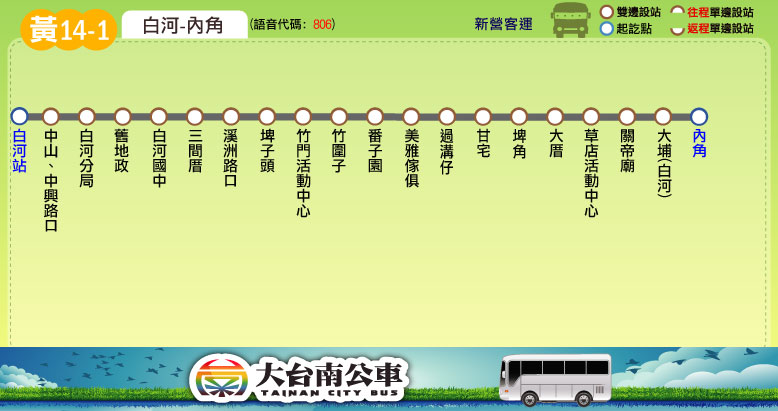
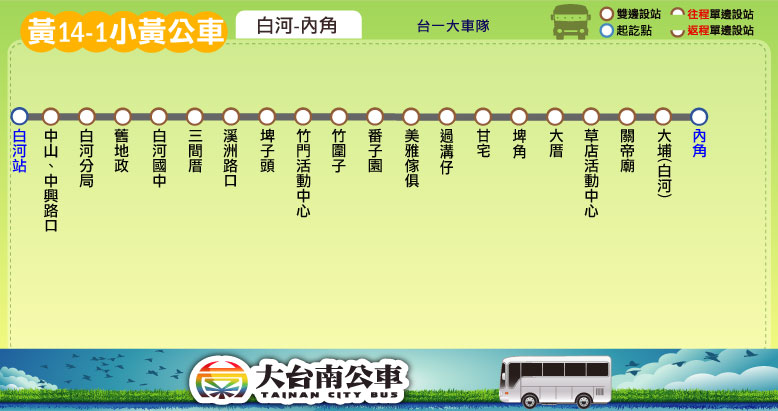
更新時刻表：黃14-1、黃15(改制小黃公車)

diff --git a/route/fare_and_time/yellow_15.js b/route/fare_and_time/yellow_15.js
@@ -20,10 +20,10 @@ yellow_15_fare = [
 // format = [time at the start stop] or
 // [time, other] or
 // [time, start_stop, end_stop, other]
-yellow_15_main_stop_name = ["白河","賞蓮大道<br />南站","玉豐","蓮花公園","枋子林","詔安厝<br />(二)"];
-yellow_15_main_stop_time_consume = [0, 5, 8, 10, 11, 15];
-yellow_15_important_stop = [0, 3, 5]; // 白河, 蓮花公園, 詔安厝(二)
+yellow_15_main_stop_name = ["白河站","賞蓮大道<br />南站","玉豐","蓮花公園","枋子林","詔安厝<br />(二)"];
+yellow_15_main_stop_time_consume = [0, 3, 8, 9, 11, 15];
+yellow_15_important_stop = [0, 3, 5]; // 白河站, 蓮花公園, 詔安厝(二)
 var start_stop = 0; // 白河
 var end_stop = 3; // 蓮花公園
-yellow_15_time_go = [["06:45",[end_stop]],["10:50",[end_stop]],["18:35",[end_stop]]];
-yellow_15_time_return = [["06:25",[end_stop]],["07:05",[end_stop]],["11:10",[end_stop]]];
+yellow_15_time_go = [["06:45",['黃']],["10:50",['黃']],["18:35",['黃']]];
+yellow_15_time_return = [["06:25",[end_stop]],["07:05",['黃']],["11:10",['黃']]];

diff --git a/yellow/yellow_14-1.html b/yellow/yellow_14-1.html
@@ -3,7 +3,7 @@
 <head>
 <meta http-equiv="Content-Type" content="text/html; charset=utf-8" />
 <script type="text/javascript">
-	route_name = '黃14-1';
+	route_name = '黃14-1小黃公車';
 	route_name_en = 'Yellow 14-1';
 	route_file_name = 'yellow_14_1';
 	route_type = 'yellow';
@@ -18,9 +18,9 @@
 <script type="text/javascript">
 	block_header();
 	block_route_map(null);
-	block_route_info(route_interval,'新營客運','','里程計費','http://www.2384.com.tw/ebus/jsp/ajaxBus.jsp?pathId=1806&locale=zh_TW');
+	block_route_info(route_interval,'台一大車隊','','里程計費','http://www.2384.com.tw/ebus/jsp/ajaxBus.jsp?pathId=1806&locale=zh_TW');
 	block_fare(0, null);
-	block_time_schedule('白河','內角','');
+	block_time_schedule('白河','內角','<p><span style="color:blue;font-weight:bold;">黃14-1全部班次皆為小黃公車</span></p>');
 	block_transfer(transfer_baihe);
 	block_copyright();
 </script>

diff --git a/route/fare_and_time/yellow_14_1.js b/route/fare_and_time/yellow_14_1.js
@@ -22,8 +22,8 @@ yellow_14_1_fare = [
 // format = [time at the start stop] or
 // [time, other] or
 // [time, start_stop, end_stop, other]
-yellow_14_1_main_stop_name = ["白河","三間厝","竹圍子","甘宅","關帝廟","內角"];
-yellow_14_1_main_stop_time_consume = [0, 5, 10, 15, 19, 23];
-yellow_14_1_important_stop = [0, 5]; // 白河, 內角
-yellow_14_1_time_go = [["07:40"],["10:50"],["15:30"]];
-yellow_14_1_time_return = [["08:05"],["11:15"],["15:55"]];
+yellow_14_1_main_stop_name = ["白河站","三間厝","竹圍子","甘宅","關帝廟","內角"];
+yellow_14_1_main_stop_time_consume = [0, 5, 9, 15, 19, 23];
+yellow_14_1_important_stop = [0, 5]; // 白河站, 內角
+yellow_14_1_time_go = [["07:40"],["08:30"],["11:30"],["15:30"]];
+yellow_14_1_time_return = [["08:05"],["08:55"],["11:15"],["15:55"]];

diff --git a/yellow/yellow_15.html b/yellow/yellow_15.html
@@ -21,9 +21,9 @@
 <script type="text/javascript">
 	block_header();
 	block_route_map(null);
-	block_route_info(route_interval,'新營客運','','里程計費','http://www.2384.com.tw/ebus/jsp/ajaxBus.jsp?pathId=1515&locale=zh_TW');
+	block_route_info(route_interval,'新營客運、台一大車隊','','里程計費','http://www.2384.com.tw/ebus/jsp/ajaxBus.jsp?pathId=1515&locale=zh_TW');
 	block_fare(0, null);
-	block_time_schedule(route_start_stop,route_end_stop,'');
+	block_time_schedule(route_start_stop,route_end_stop,'「<span style="color:yellow;background-color:black;"> 黃 </span>」表示為小黃公車班次');
 	block_transfer(transfer_baihe);
 	block_copyright();
 </script>
